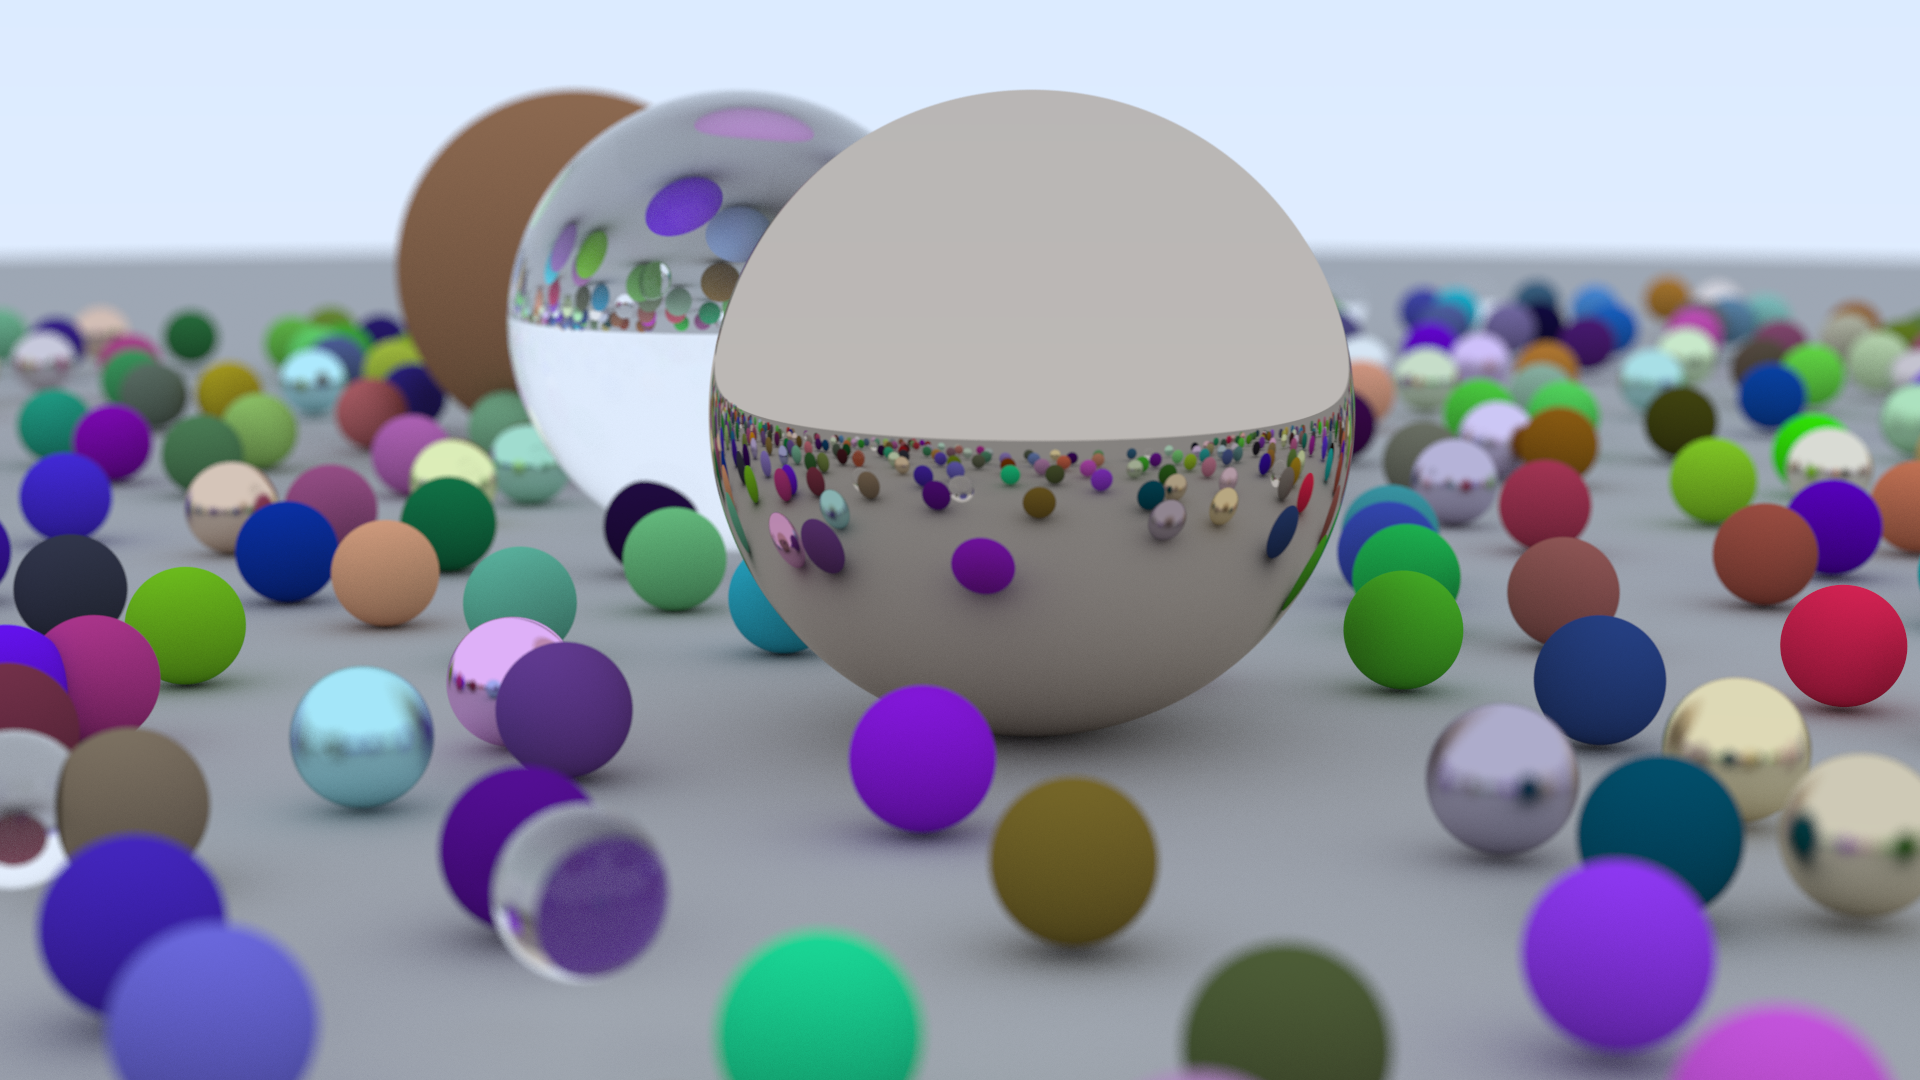
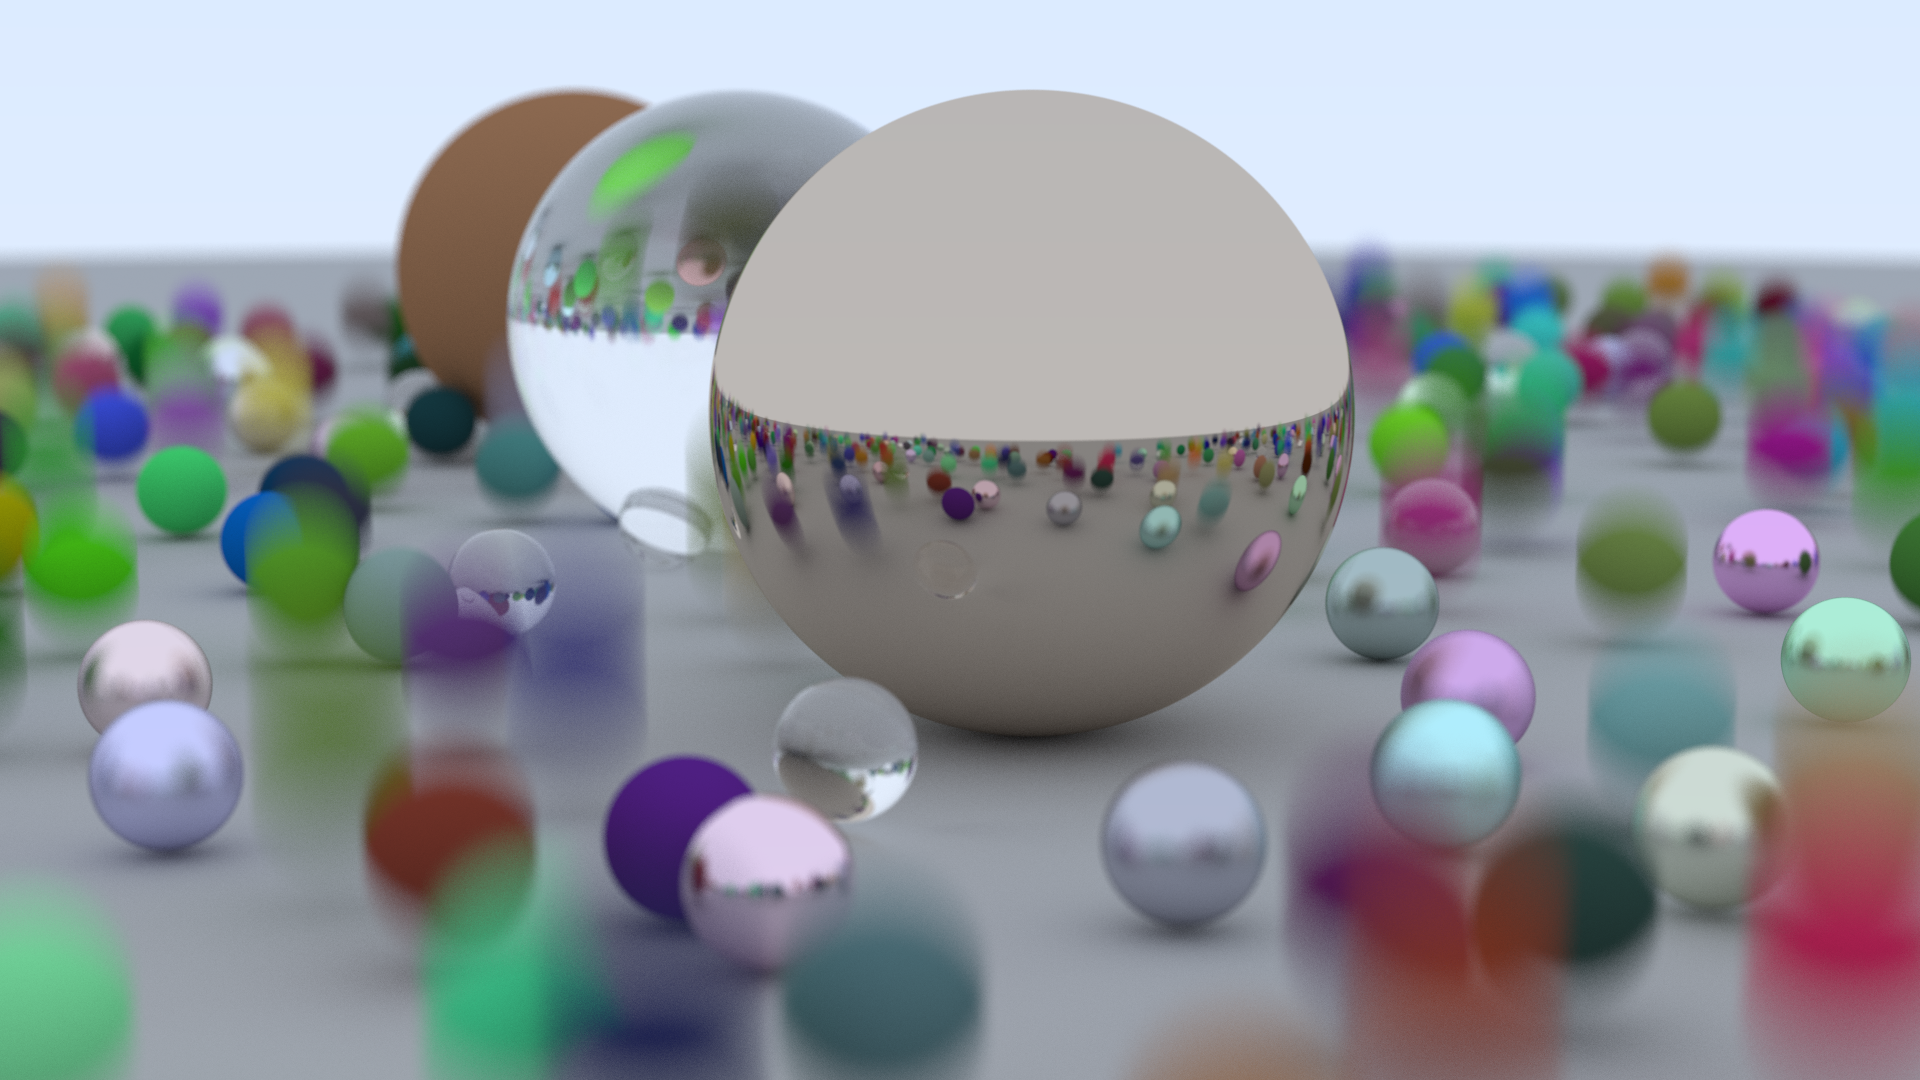
ch01_motion_blur_cuda

diff --git a/sphere.h b/sphere.h
@@ -7,7 +7,14 @@
 
 class sphere : public hittable {
 public:
-    __device__ sphere(const point3 &center, float radius, material *mat) : center(center), radius(fmaxf(0.0f, radius)), mat(mat) {
+    // Stationary Sphere
+    __device__ sphere(const point3 &center, float radius, material* mat)
+            : center1(center), radius(fmax(0.0f, radius)), mat(mat), is_moving(false) {}
+
+    // Moving sphere
+    __device__ sphere(const point3 &center1, const point3 &center2, float radius, material* mat) :
+            center1(center1), radius(fmax(0.0f, radius)), mat(mat), is_moving(true) {
+        center_vec = center2 - center1;
     }
 
     __device__ bool hit(const ray &r, interval ray_t, hit_record &rec) const override {
@@ -22,6 +29,7 @@ public:
          * 其中 t 为未知数，展开得 (d·d)t^2 + (-2d·(C-Q))t + (C-Q)·(C-Q) - r^2 = 0
          * 二元一次方程 b^2 - 4ac >= 0 时有解，说明光线击中球体
          */
+        point3 center = is_moving ? sphere_center(r.time()) : center1;
         vec3 oc = center - r.origin();
         // float a = dot(r.direction(), r.direction());
         // float b = -2.0f * dot(r.direction(), oc);
@@ -58,9 +66,17 @@ public:
     }
 
 private:
-    point3 center;
+    point3 center1;
     float radius;
     material *mat;
+    bool is_moving;
+    vec3 center_vec;
+
+    __device__ point3 sphere_center(float time) const {
+        // Linearly interpolate from center1 to center2 according to time, where t = 0 yields
+        // center1, and t = 1 yields center2.
+        return center1 + time * center_vec;
+    }
 };
 
 #endif // SPHERE_H

diff --git a/material.h b/material.h
@@ -31,7 +31,7 @@ public:
         if (scatter_direction.near_zero())
             scatter_direction = rec.normal;
 
-        scattered = ray(rec.p, scatter_direction);
+        scattered = ray(rec.p, scatter_direction, r_in.time());
         attenuation = albedo;
         return true;
     }
@@ -51,7 +51,7 @@ public:
     const override {
         vec3 reflected = reflect(r_in.direction(), rec.normal);
         reflected = unit_vector(reflected) + (fuzz * random_unit_vector(rand_state));
-        scattered = ray(rec.p, reflected);
+        scattered = ray(rec.p, reflected, r_in.time());
         attenuation = albedo;
         return (dot(scattered.direction(), rec.normal) > 0);
     }
@@ -84,7 +84,7 @@ public:
         else
             direction = refract(unit_direction, rec.normal, ri);
 
-        scattered = ray(rec.p, direction);
+        scattered = ray(rec.p, direction, r_in.time());
         return true;
     }
 

diff --git a/ray.h b/ray.h
@@ -7,11 +7,15 @@ class ray {
 public:
     __device__ ray() {}
 
-    __device__ ray(const point3 &origin, const vec3 &direction) : orig(origin), dir(direction) {}
+    __device__ ray(const point3 &origin, const vec3 &direction) : orig(origin), dir(direction), tm(0.0f) {}
+
+    __device__ ray(const point3 &origin, const vec3 &direction, float time) : orig(origin), dir(direction), tm(time) {}
 
     __device__ const point3 &origin() const { return orig; }
 
     __device__ const vec3 &direction() const { return dir; }
+
+    __device__ float time() const { return tm; }
 
     __device__ point3 at(float t) const {
         return orig + t * dir;
@@ -22,6 +26,7 @@ private:
     // 根据输入 t 确定最终光线到达的点 P: point3 at(double t)
     point3 orig; // 光源坐标
     vec3 dir; // 光线方向
+    float tm;
 };
 
 #endif // RAY_H

diff --git a/camera.h b/camera.h
@@ -95,7 +95,9 @@ public:
 
         auto ray_origin = (defocus_angle <= 0) ? camera_center : defocus_disk_sample(local_rand_state);
         auto ray_direction = pixel_sample - ray_origin;
-        return ray(ray_origin, ray_direction);
+        float ray_time = random_float(local_rand_state);
+
+        return ray(ray_origin, ray_direction, ray_time);
     }
 
     __device__ point3 defocus_disk_sample(curandState &rand_state) {
